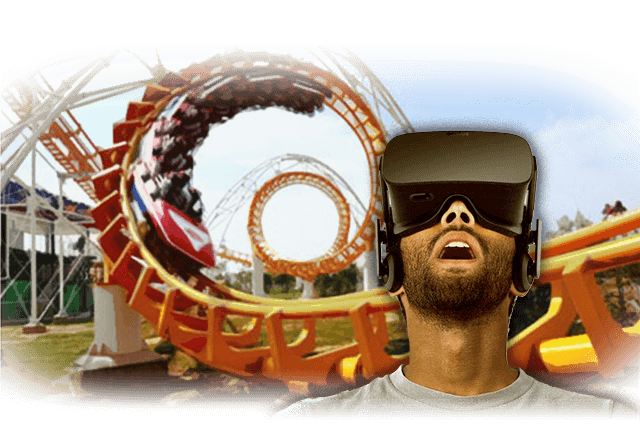
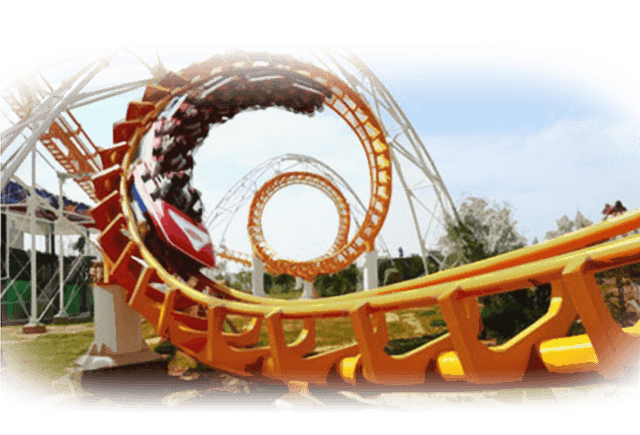
init

diff --git a/test.html b/test.html
@@ -2,11 +2,11 @@
 <html>
 <head lang = "en">
     <meta charset = "UTF-8">
-    <meta name="viewport" content="target-densitydpi=device-dpi, width=640px, user-scalable=no">
+    <meta name="viewport" content="target-densitydpi=device-dpi, width=640, user-scalable=no">
     <!--<meta name="viewport" content="width=device-width, initial-scale=1.0, user-scalable=0, minimum-scale=1.0, maximum-scale=3.0">-->
     <!--<meta name="viewport" content="width=320, initial-scale=1.0 maximum-scale=1, user-scalable=0">-->
     <!--<meta name="viewport" id="viewportSet" content="width=320, initial-scale=1.125, maximum-scale=1.125, user-scalable=no">-->
-    <meta name="description" content="A layout example that shows off a responsive product landing page.">
+    <meta name="description" content="AMD 盛宴">
     <meta content="yes" name="apple-mobile-web-app-capable">
     <meta content="black" name="apple-mobile-web-app-status-bar-style">
     <meta content="telephone=no" name="format-detection">
@@ -207,6 +207,7 @@
                     <div class="middle" style="position:relative;left:0;right:0;margin:0 auto;height: 440px;overflow: hidden">
                         <div class="bg-img bg_bimg" style="position: absolute;top:0;left: 0;right: 0;background: no-repeat center url(./img/amd3/bimg.png);width: 640px;height: 436px;margin: 0 auto;">
                         </div>
+                        <img class="bg_bimg1 ab-center" src="./img/amd3/bimg1.png" style="top: 100px;left: 200px;">
                     </div>
 
                     <div class="footer" style="min-height: 220px;position:relative;z-index: 10">
@@ -357,14 +358,6 @@
 //        return me;
 //    }());
 
-    var amdCss = {
-        p0:{
-
-        },
-        p1:{
-
-        }
-    };
     var amdAnimation = (function(){
         var me = {};
         var tl = new TimelineMax({paused:true});
